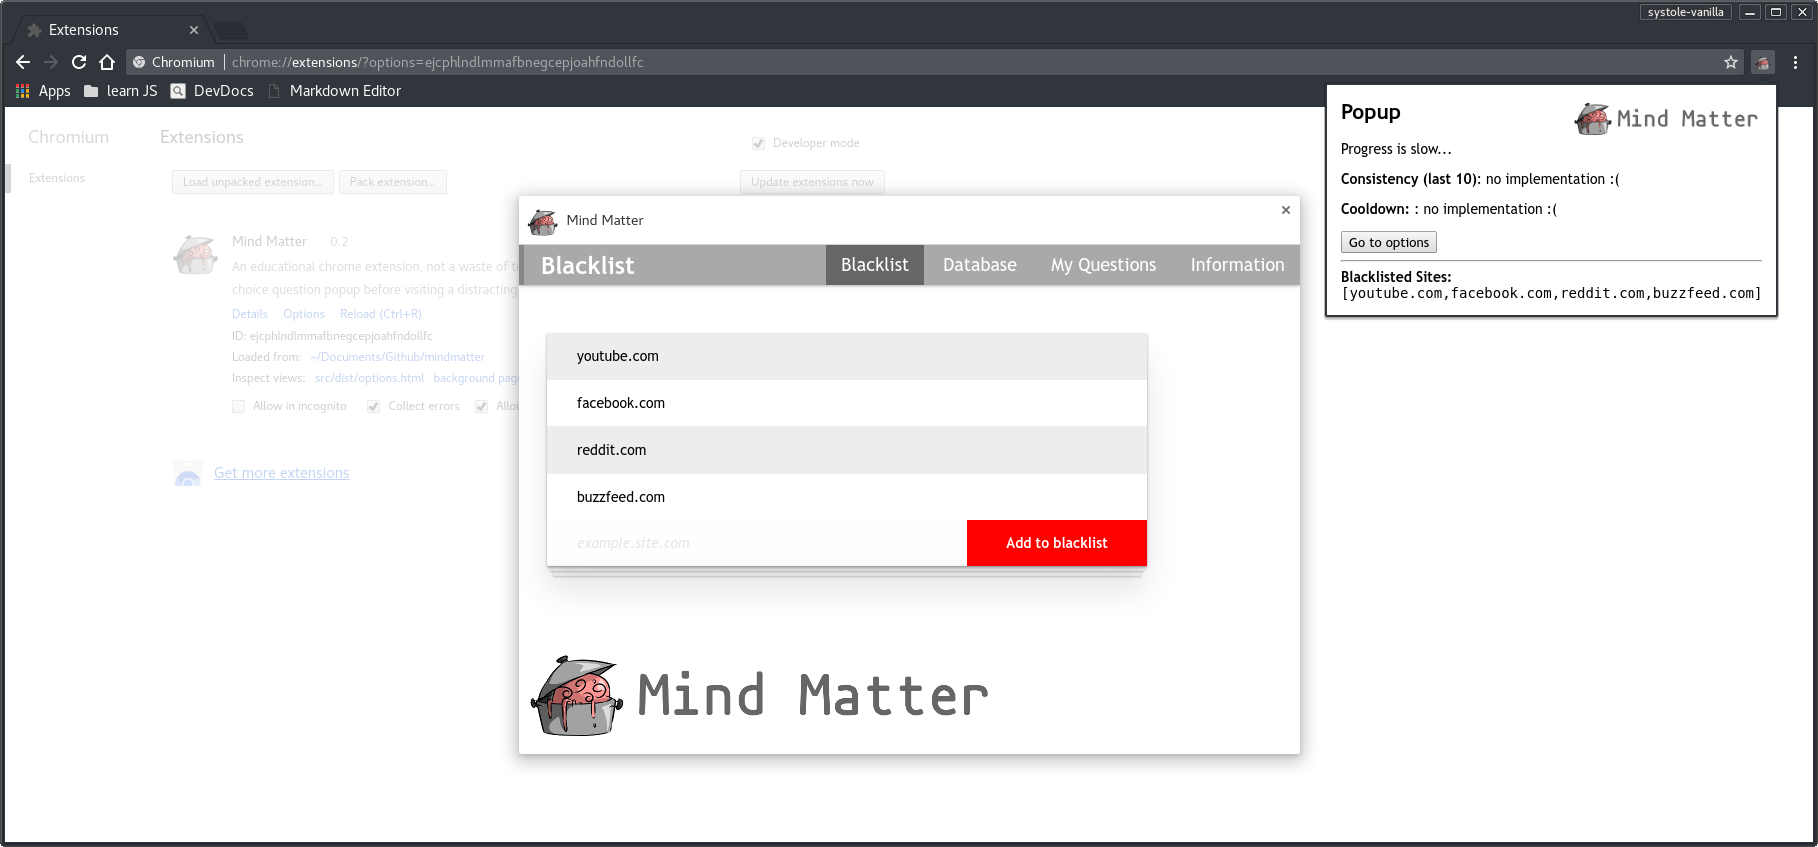
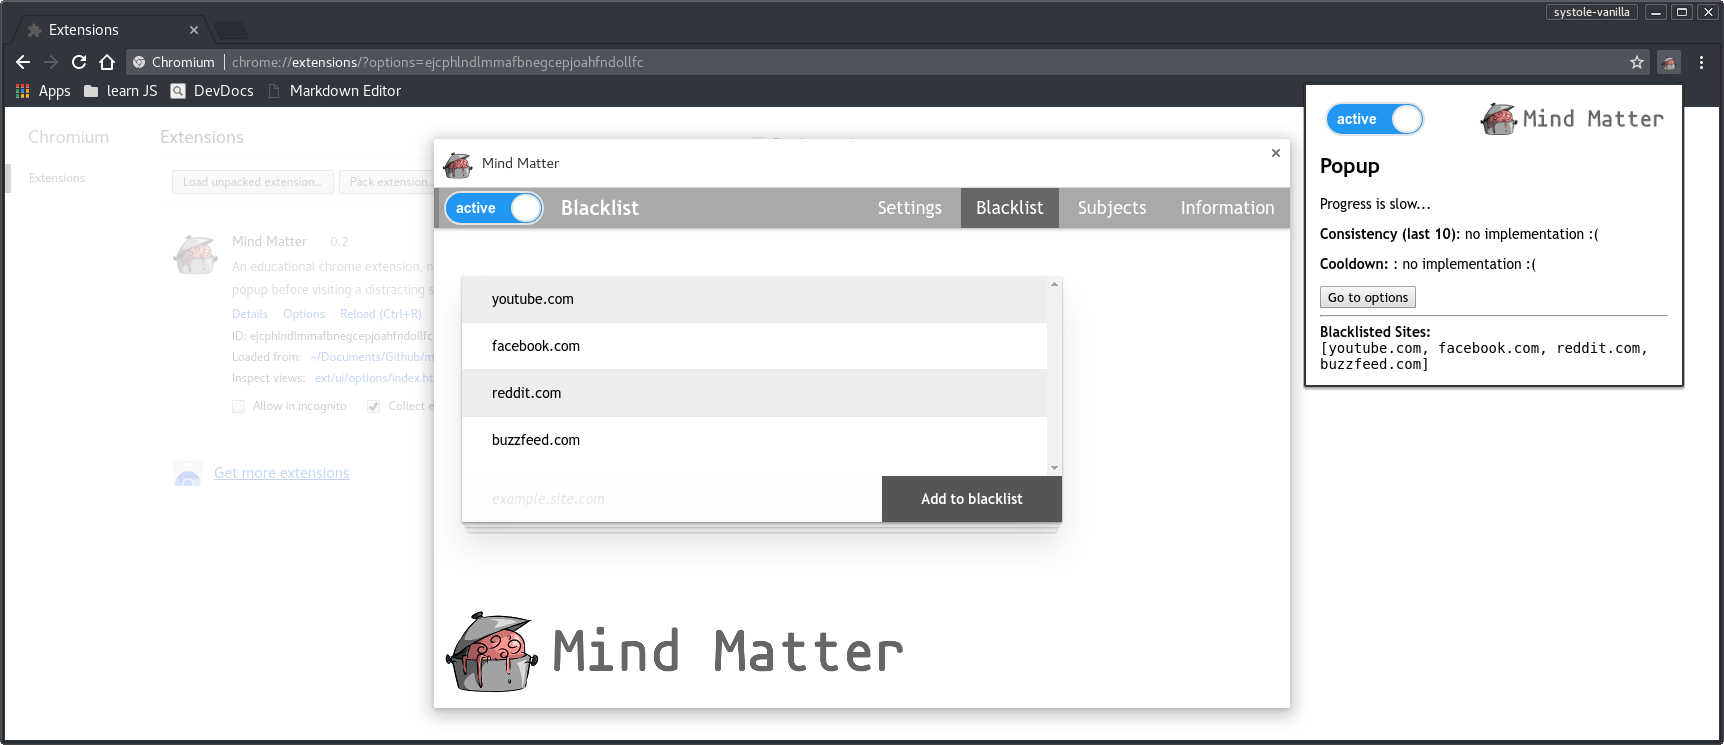
Really bad names :expressionless:

diff --git a/ext/ui/options/index.html b/ext/ui/options/index.html
@@ -7,12 +7,12 @@
     <meta name="theme-color" content="#A9A9A9">
     <link rel="shortcut icon" href="/assets/favicon.ico">
 
-    <link rel="stylesheet" href="/src/styles/index.css">
-    <link rel="stylesheet" href="/src/styles/header.css">
-    <link rel="stylesheet" href="/src/styles/toggle-switch.css">
-    <script type="text/javascript" src="/src/lib/jquery-3.2.1.min.js"></script>
-    <script type="text/javascript" src="/src/js/options.js"></script>
-    <script type="text/javascript" src="/src/js/pause.js"></script>
+    <link rel="stylesheet" href="/ext/styles/index.css">
+    <link rel="stylesheet" href="/ext/styles/header.css">
+    <link rel="stylesheet" href="/ext/styles/toggle-switch.css">
+    <script type="text/javascript" src="/ext/lib/jquery-3.2.1.min.js"></script>
+    <script type="text/javascript" src="/ext/js/options.js"></script>
+    <script type="text/javascript" src="/ext/js/pause.js"></script>
 
     <title>Mind Matter</title>
 
@@ -22,7 +22,7 @@
         }
 
         body {
-            min-width: 765px;
+            min-width: 840px;
         }
     </style>
 </head>
@@ -40,9 +40,10 @@
 
         <h1 id="heading"></h1>
         <nav>
-            <a href="subjects.html" id="subjects_ln">Subjects</a>
+            <a href="settings.html" id="settings_ln">Settings</a>
             <a href="blacklist.html" id="blacklist_ln">Blacklist</a>
-            <!--<a href="my_questions" id="questions_ln">My&nbsp;Questions</a>-->
+            <a href="subjects.html" id="subjects_ln">Subjects</a>
+            <!--<a href="my_questions.html" id="my_questions_ln">My&nbsp;Questions</a>-->
             <a href="information.html" id="information_ln">Information</a>
         </nav>
     </header>

diff --git a/ext/ui/options/information.html b/ext/ui/options/information.html
@@ -17,6 +17,6 @@ Zhang. He is not very good at website development, so most of what you see was a
 <p>
     Anyone willing to help out is more than welcome! You can report bugs here:
     <a href="https://github.com/jennydaman/mindmatter/issues" target="_blank">https://github.com/jennydaman/mindmatter/issues</a><br
-    /> If you are interested in submitting your own questions, create a
+    /> If you are interested in submitting your own questions, open a 
     <a href="https://github.com/jennydaman/mindmatter/pull/new/gh-pages" target="_blank">pull request</a> on the <code>gh-pages</code>    branch.
 </p>

diff --git a/ext/ui/popup.html b/ext/ui/popup.html
@@ -1,9 +1,9 @@
 <html>
 
 <head>
-    <link rel="stylesheet" href="/src/styles/index.css">
-    <link rel="stylesheet" href="/src/styles/toggle-switch.css">
-    <script type="text/javascript" src="/src/js/pause.js"></script>
+    <link rel="stylesheet" href="/ext/styles/index.css">
+    <link rel="stylesheet" href="/ext/styles/toggle-switch.css">
+    <script type="text/javascript" src="/ext/js/pause.js"></script>
 
     <title>Mind Matters</title>
 </head>

diff --git a/ext/ui/options/blacklist.html b/ext/ui/options/blacklist.html
@@ -1,8 +1,8 @@
-<link rel="stylesheet" href="/src/styles/list.css">
-<link rel="stylesheet" href="/src/styles/exlist.css">
+<link rel="stylesheet" href="/ext/styles/list.css">
+<link rel="stylesheet" href="/ext/styles/exlist.css">
 
 <section class="listapp">
-    <ul id="blacklist" class="list">
+    <ul id="blacklist" class="list scrollingContainer">
         
     </ul>
 

diff --git a/ext/styles/list.css b/ext/styles/list.css
@@ -8,7 +8,11 @@
 	box-shadow: 0 2px 4px 0 rgba(0, 0, 0, 0.2),
 	0 25px 50px 0 rgba(0, 0, 0, 0.1),
 	0 1px 1px rgba(0, 0, 0, 0.2), 0 8px 0 -3px #f6f6f6, 0 9px 1px -3px rgba(0, 0, 0, 0.2), 0 16px 0 -6px #f6f6f6, 0 17px 2px -6px rgba(0, 0, 0, 0.2);
+}
 
+.scrollingContainer {
+	overflow-y: scroll;
+    height: 200px;
 }
 
 .list {

diff --git a/ext/js/options.js b/ext/js/options.js
@@ -50,7 +50,7 @@ $(document).ready(function () {
         blacklist_array = items.blacklist_array;
         subjects = items.subjects;
 
-        $("#subjects_ln").trigger("click"); //go to blacklist by default 
+        $("#settings_ln").trigger("click"); //go to blacklist by default 
     });
 });
 

diff --git a/ext/styles/header.css b/ext/styles/header.css
@@ -3,7 +3,6 @@
 	left: 0;
 	top: 0;
 	width: 100%;
-	min-width: 765px;
 	height: 40px;
 	padding: 0;
 	background: #A9A9A9;
@@ -24,7 +23,7 @@
 	text-align: center;
 	margin: 0;
     padding-left: 17px;
-	font-size: 24px;
+	font-size: 20px;
 	line-height: 40px;
 	font-weight: bold;
 	color: #FFF;

diff --git a/ext/ui/options/settings.html b/ext/ui/options/settings.html
@@ -1,0 +1,3 @@
+<!--might be cool to make this into an uneven slider, like the one from VBox that sets virtual hard disk size.-->
+
+This is the settings page.

diff --git a/ext/styles/index.css b/ext/styles/index.css
@@ -5,7 +5,6 @@ html, body {
 	-webkit-font-smoothing: antialiased;
 	-moz-osx-font-smoothing: grayscale;
     font-size: 14px;
-
 }
 
 * {
